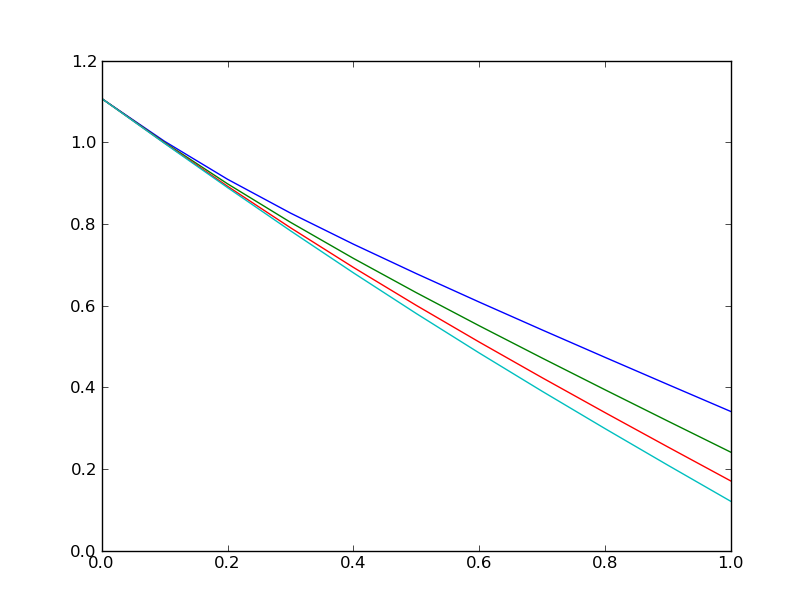
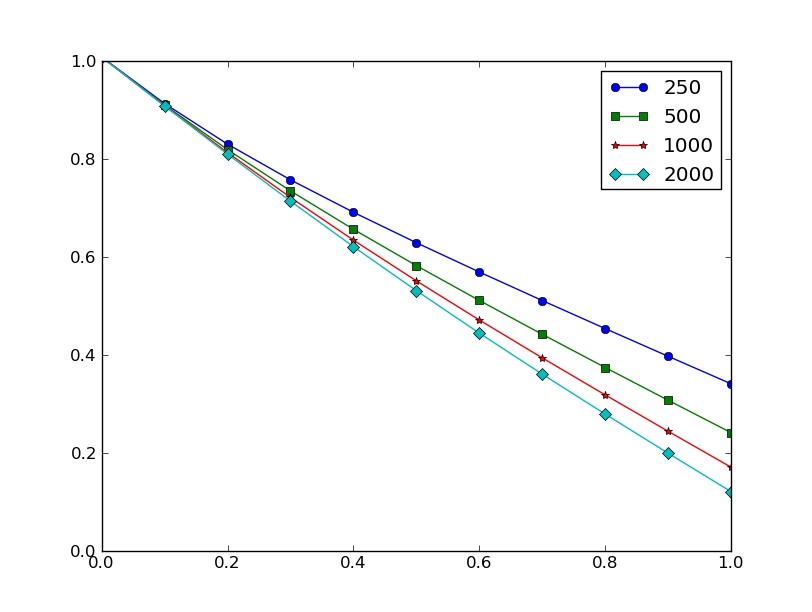
updated plotter's axis and domain adaptation figures in the report

diff --git a/report/report.tex b/report/report.tex
@@ -358,9 +358,9 @@ results.
   \subfigure[$\zeta(U_S, U_T)=1, m_T=2500$]
   {\includegraphics[scale=.3]{adaptation_bound_1_T}}
   \subfigure%[$\zeta(U_S, U_T)=1, m_S=2500$]
-  {\includegraphics[scale=.3]{adaptation_err_1_S}}
+  {\includegraphics[scale=.3]{adaptation_err_S}}
   \subfigure%[$\zeta(U_S, U_T)=1, m_T=2500$]
-  {\includegraphics[scale=.3]{adaptation_err_1_T}}
+  {\includegraphics[scale=.3]{adaptation_err_T}}
   \caption{Domain adaptation experiments. The $\alpha$-error is shown as a function of $\alpha$ for different combinations of source and target examples.}
   \label{fig:domain-adaptation}
 \end{figure}

diff --git a/domain_adaptation.py b/domain_adaptation.py
@@ -53,6 +53,7 @@ def plot_curve(curve, zeta, fix):
             else:               # assume jason file
                 plot_err(ms, mt, curve)
     pyplot.legend()
+    pyplot.axis([0,1,0,1])
     pyplot.show()
 
 def bound(alpha, beta, m, zeta=1):
